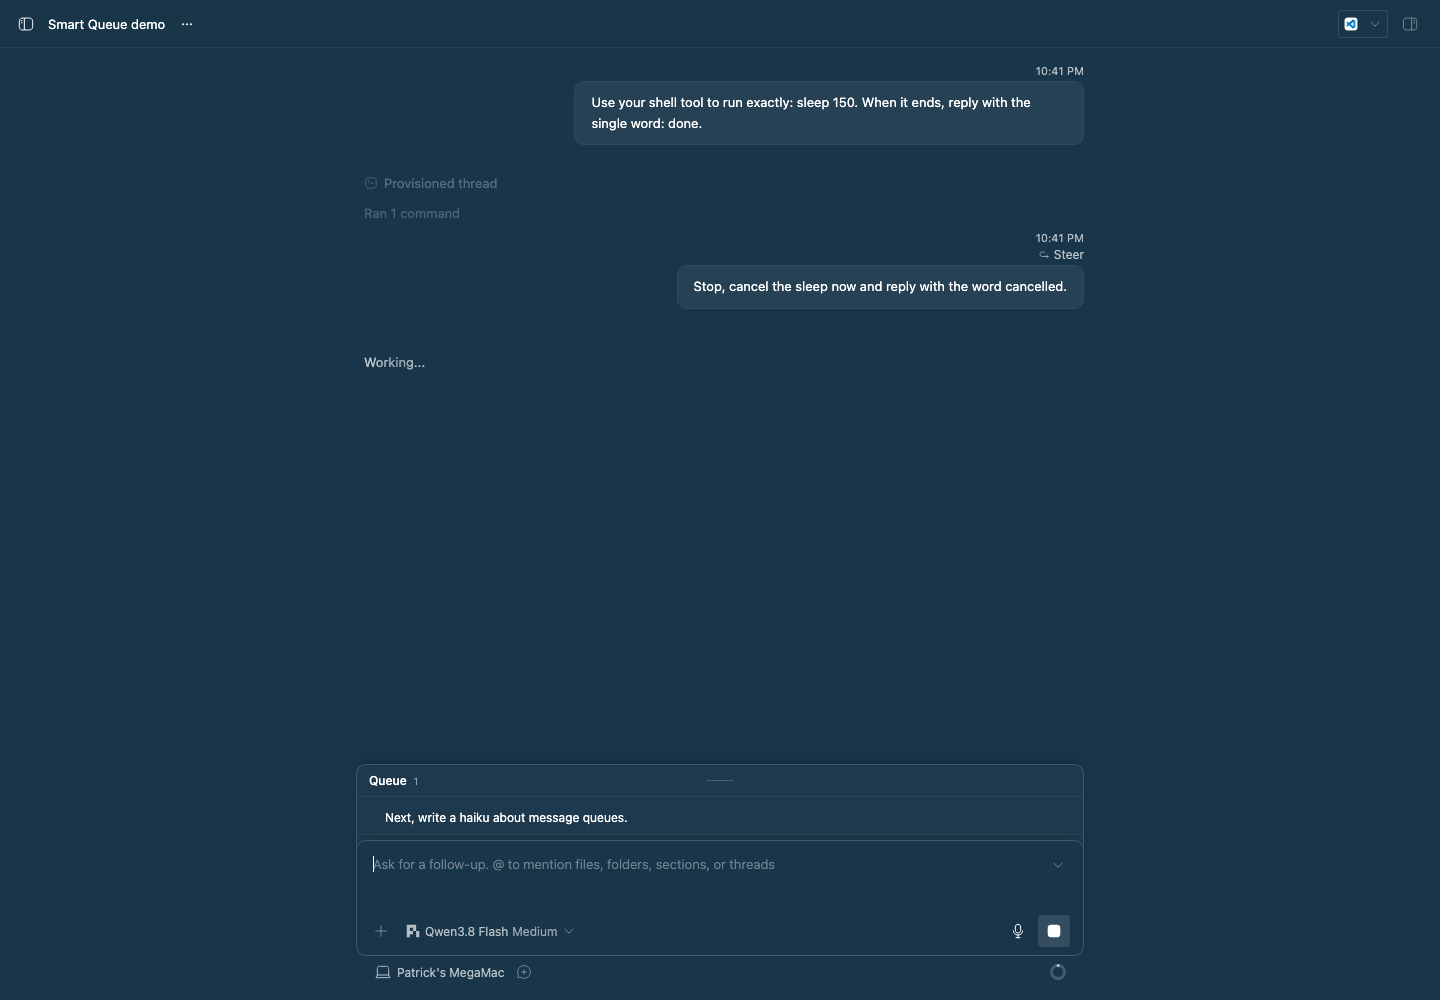
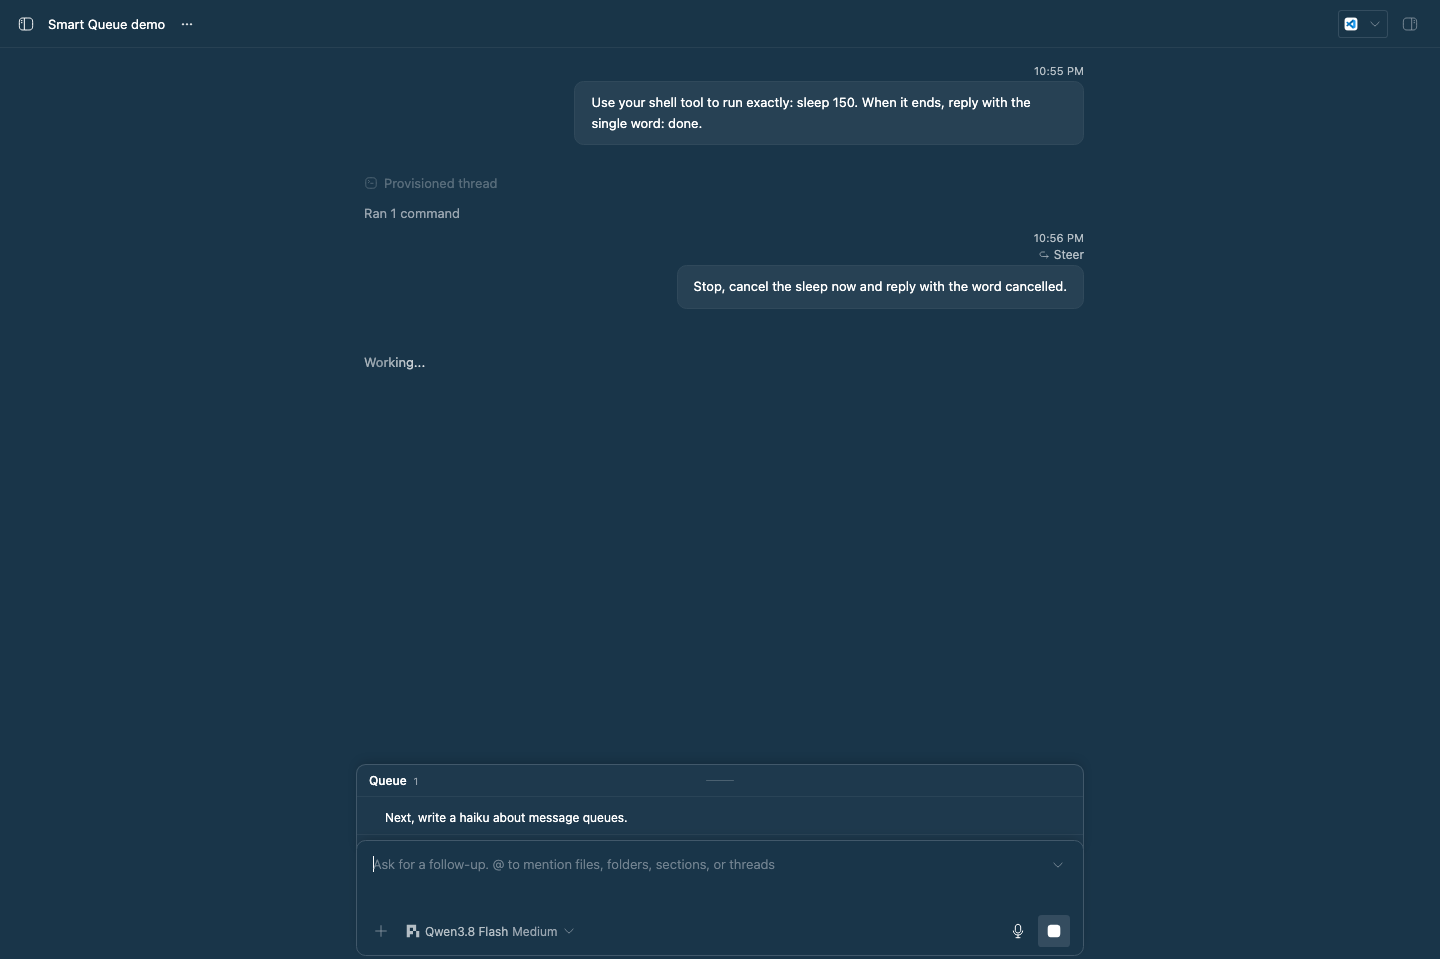
Leave the machine name out of the Smart Queue screenshot
The thread capture now crops the real frame just below the composer,
above the row that names the machine, and fails if anything below the
composer would fall inside the crop.

diff --git a/packages/bb-plugin-smart-queue/README.md b/packages/bb-plugin-smart-queue/README.md
@@ -121,7 +121,8 @@ composer while it worked. Smart Queue steered the correction ("Stop, cancel
 the sleep now and reply with the word cancelled.") into the running turn,
 shown by BB's **Steer** label. It kept the separate task ("Next, write a haiku
 about message queues.") in the **Queue** as a follow-up. The capture also checks
-both decisions in `bb smart-queue recent`.
+both decisions in `bb smart-queue recent`, and ends the frame at the composer
+so the machine name below it is left out.
 
 ![Smart Queue settings with provider keys, the Jev connection check, and the fallback model picker](assets/settings.png)
 
